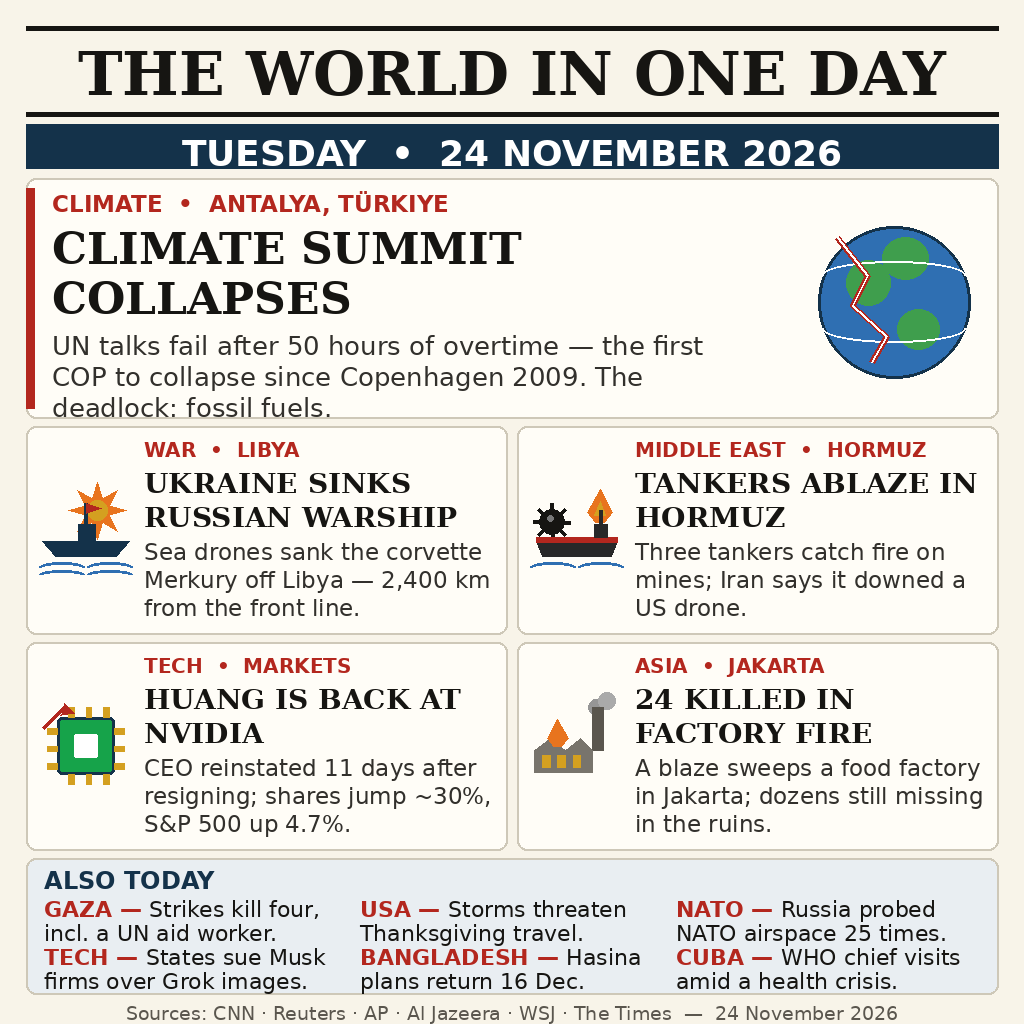
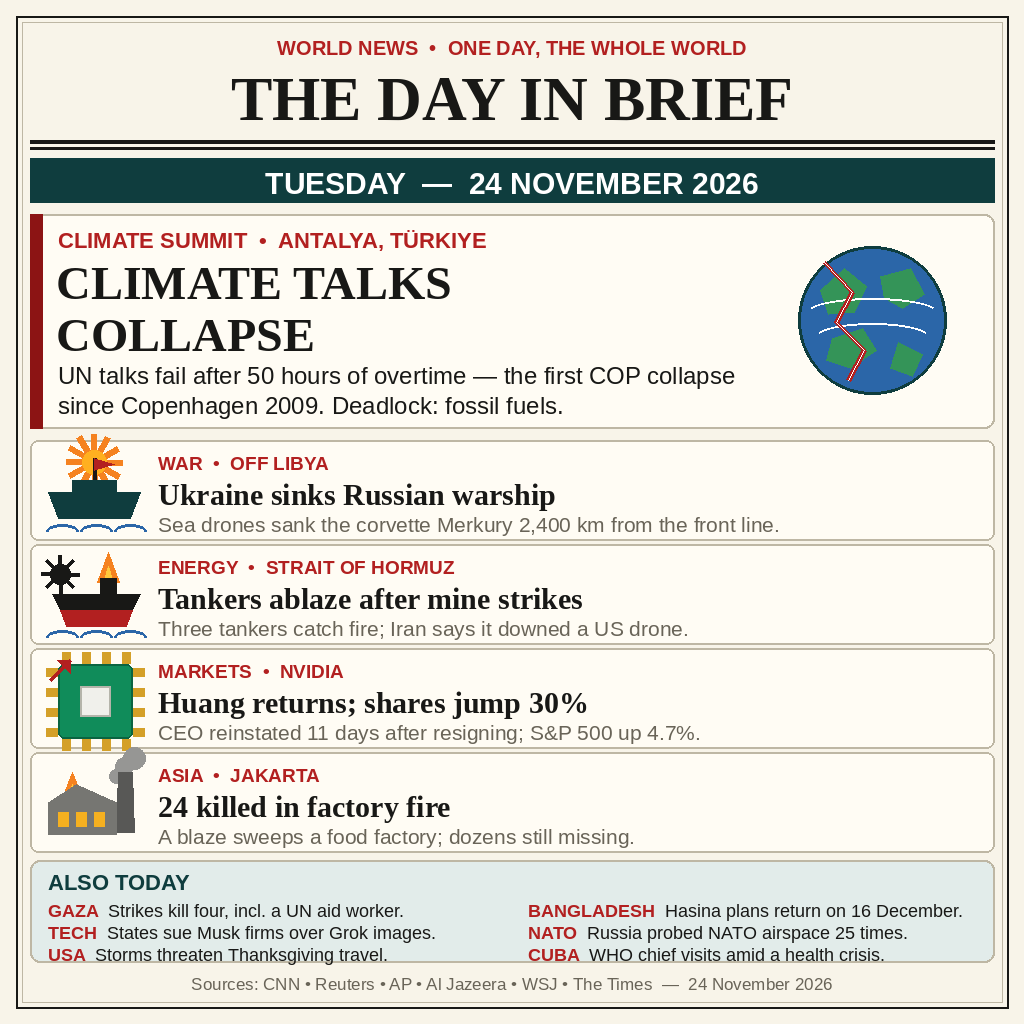
Update entry: replace main.py, entry.png, README.md, LICENSE; add requirements.json and owner.json

diff --git a/main.py b/main.py
@@ -1,25 +1,295 @@
 #!/usr/bin/env python3
-"""make.fun entry: "Sum up 24 November's world news in one image".
+"""THE DAY IN BRIEF — Tuesday 24 November 2026.
 
-Writes the entry image to /output/entry.png. The image is committed in
-this repository as entry.png (a one-page newspaper front page drawn with
-Pillow by build_poster.py, summing up the real world news of Tuesday
-24 November 2026); this program only copies it, byte for byte, so both
-runs write identical bytes. Standard library only, no network.
+A pure-Pillow program that draws a one-page broadsheet poster summing up
+the world news of Tuesday 24 November 2026. It writes entry.png (1024x1024)
+next to this file. No network, no input files, fully deterministic: two
+runs write byte-identical output.
+
+Run:  python3 main.py
 """
-
+import hashlib
+import math
 import os
-import shutil
-from pathlib import Path
 
-HERE = Path(__file__).resolve().parent
-OUT = Path(os.environ.get("MAKEFUN_OUTPUT_DIR", "/output"))
+from PIL import Image, ImageDraw, ImageFont
+
+SIZE = 1024
+HERE = os.path.dirname(os.path.abspath(__file__))
+
+# ---------------------------------------------------------------- palette
+PAPER = (248, 244, 233)
+CARD = (255, 252, 244)
+TEAL = (15, 61, 62)
+TEAL_SOFT = (226, 236, 234)
+CRIMSON = (178, 32, 32)
+CRIMSON_DARK = (140, 20, 20)
+INK = (24, 24, 22)
+MUTED = (105, 100, 88)
+RULE = (190, 183, 164)
+OCEAN = (43, 102, 168)
+LEAF = (52, 148, 88)
+GOLD = (212, 160, 40)
+AMBER = (245, 130, 32)
+WHITE = (255, 255, 255)
+
+SERIF = "/usr/share/fonts/truetype/liberation/LiberationSerif-Bold.ttf"
+SANS_B = "/usr/share/fonts/truetype/liberation/LiberationSans-Bold.ttf"
+SANS_R = "/usr/share/fonts/truetype/liberation/LiberationSans-Regular.ttf"
 
 
-def main() -> None:
-    OUT.mkdir(parents=True, exist_ok=True)
-    shutil.copyfile(HERE / "entry.png", OUT / "entry.png")
+def load(path, size):
+    return ImageFont.truetype(path, size)
+
+
+def wrap_text(draw, text, font, max_width):
+    """Greedy word wrap; returns the lines that fit inside max_width."""
+    lines = []
+    current = ""
+    for word in text.split():
+        trial = (current + " " + word).strip()
+        if draw.textlength(trial, font=font) <= max_width:
+            current = trial
+        else:
+            if current:
+                lines.append(current)
+            current = word
+    if current:
+        lines.append(current)
+    return lines
+
+
+def draw_lines(draw, x, y, lines, font, fill, leading):
+    for line in lines:
+        draw.text((x, y), line, font=font, fill=fill)
+        y += leading
+    return y
+
+
+# ------------------------------------------------------------------ icons
+def draw_globe(draw, cx, cy, radius):
+    """Blue globe with green continents, white meridians and a red crack."""
+    box = [cx - radius, cy - radius, cx + radius, cy + radius]
+    draw.ellipse(box, fill=OCEAN, outline=TEAL, width=3)
+    # continents: simple blobby polygons clipped by hand to the circle
+    land = [
+        [(cx - 52, cy - 30), (cx - 28, cy - 52), (cx - 6, cy - 34),
+         (cx - 18, cy - 8), (cx - 44, cy - 6)],
+        [(cx + 8, cy - 44), (cx + 38, cy - 52), (cx + 52, cy - 26),
+         (cx + 30, cy - 12), (cx + 12, cy - 22)],
+        [(cx - 40, cy + 18), (cx - 10, cy + 8), (cx + 4, cy + 30),
+         (cx - 22, cy + 48), (cx - 46, cy + 40)],
+        [(cx + 26, cy + 22), (cx + 50, cy + 34), (cx + 40, cy + 56),
+         (cx + 18, cy + 48)],
+    ]
+    for poly in land:
+        draw.polygon(poly, fill=LEAF)
+    # latitude lines
+    for frac, half in ((0.45, 0.89), (0.62, 0.78)):
+        y = cy - radius + int(2 * radius * frac)
+        w = int(radius * half)
+        draw.arc([cx - w, y - 14, cx + w, y + 14], 200, 340, fill=WHITE, width=2)
+    # red crack across the globe
+    crack = [(cx - 48, cy - 58), (cx - 20, cy - 28), (cx - 36, cy + 2),
+             (cx - 8, cy + 30), (cx - 24, cy + 60)]
+    draw.line(crack, fill=CRIMSON, width=5, joint="curve")
+    draw.line(crack, fill=WHITE, width=1, joint="curve")
+
+
+def draw_waves(draw, x, y, width, colour=OCEAN):
+    for dx in range(0, width, 34):
+        draw.arc([x + dx, y, x + dx + 32, y + 14], 180, 360, fill=colour, width=3)
+
+
+def draw_warship(draw, x, y):
+    """Warship under a blast: orange starburst, mast, hull, waves."""
+    bx, by = x + 50, y + 20
+    for angle in range(0, 360, 30):
+        a = math.radians(angle)
+        draw.line([bx, by, bx + 28 * math.cos(a), by + 28 * math.sin(a)],
+                  fill=AMBER, width=6)
+    draw.ellipse([bx - 12, by - 12, bx + 12, by + 12], fill=(255, 176, 32))
+    draw.line([x + 50, y + 16, x + 50, y + 50], fill=INK, width=4)
+    draw.polygon([(x + 50, y + 16), (x + 70, y + 22), (x + 50, y + 28)],
+                 fill=CRIMSON)
+    draw.polygon([(x + 4, y + 50), (x + 96, y + 50), (x + 86, y + 76),
+                  (x + 14, y + 76)], fill=TEAL)
+    draw.rectangle([x + 28, y + 38, x + 72, y + 50], fill=TEAL)
+    draw_waves(draw, x + 2, y + 82, 96)
+
+
+def draw_tanker(draw, x, y):
+    """Oil tanker on fire with a spiked mine beside it."""
+    mx, my = x + 16, y + 28
+    for angle in range(0, 360, 45):
+        a = math.radians(angle)
+        draw.line([mx, my, mx + 19 * math.cos(a), my + 19 * math.sin(a)],
+                  fill=INK, width=4)
+    draw.ellipse([mx - 10, my - 10, mx + 10, my + 10], fill=INK)
+    fx, fy = x + 64, y + 24
+    draw.polygon([(fx - 11, fy + 12), (fx, fy - 18), (fx + 11, fy + 12)],
+                 fill=AMBER)
+    draw.polygon([(fx - 5, fy + 12), (fx, fy - 4), (fx + 5, fy + 12)],
+                 fill=(255, 200, 60))
+    draw.rectangle([x + 56, y + 32, x + 72, y + 48], fill=INK)
+    draw.polygon([(x + 8, y + 48), (x + 96, y + 48), (x + 88, y + 64),
+                  (x + 16, y + 64)], fill=INK)
+    draw.polygon([(x + 16, y + 64), (x + 88, y + 64), (x + 82, y + 80),
+                  (x + 22, y + 80)], fill=CRIMSON)
+    draw_waves(draw, x + 2, y + 84, 96)
+
+
+def draw_chip(draw, x, y):
+    """Green microchip with gold pins and a red rising arrow."""
+    for i in range(4):
+        px = x + 18 + i * 20
+        draw.rectangle([px, y + 2, px + 8, y + 13], fill=GOLD)
+        draw.rectangle([px, y + 89, px + 8, y + 100], fill=GOLD)
+        py = y + 18 + i * 20
+        draw.rectangle([x + 2, py, x + 13, py + 8], fill=GOLD)
+        draw.rectangle([x + 89, py, x + 100, py + 8], fill=GOLD)
+    draw.rounded_rectangle([x + 14, y + 14, x + 88, y + 88], radius=6,
+                           fill=(16, 140, 90), outline=(10, 100, 65), width=2)
+    draw.rectangle([x + 36, y + 36, x + 66, y + 66], fill=(240, 240, 235),
+                   outline=(180, 180, 170), width=2)
+    draw.line([x + 6, y + 30, x + 26, y + 10], fill=CRIMSON, width=5)
+    draw.polygon([(x + 26, y + 10), (x + 13, y + 10), (x + 26, y + 23)],
+                 fill=CRIMSON)
+
+
+def draw_factory(draw, x, y):
+    """Factory with smoking chimney and a flame on the roof."""
+    for (sx, sy, sr) in [(x + 80, y + 12, 9), (x + 90, y + 4, 11),
+                         (x + 72, y + 22, 7)]:
+        draw.ellipse([sx - sr, sy - sr, sx + sr, sy + sr], fill=(150, 150, 148))
+    draw.polygon([(x + 74, y + 18), (x + 88, y + 18), (x + 90, y + 78),
+                  (x + 72, y + 78)], fill=(88, 88, 86))
+    fx, fy = x + 28, y + 34
+    draw.polygon([(fx - 11, fy + 12), (fx, fy - 16), (fx + 11, fy + 12)],
+                 fill=AMBER)
+    draw.polygon([(fx - 5, fy + 12), (fx, fy - 4), (fx + 5, fy + 12)],
+                 fill=(255, 200, 60))
+    draw.polygon([(x + 4, y + 48), (x + 32, y + 30), (x + 72, y + 48),
+                  (x + 72, y + 80), (x + 4, y + 80)], fill=(118, 118, 114))
+    for wx in (14, 32, 50):
+        draw.rectangle([x + wx, y + 58, x + wx + 10, y + 72], fill=(245, 176, 32))
+
+
+# ------------------------------------------------------------------ poster
+def build():
+    img = Image.new("RGB", (SIZE, SIZE), PAPER)
+    d = ImageDraw.Draw(img)
+
+    # outer frame: double rule
+    d.rectangle([16, 16, 1008, 1008], outline=INK, width=2)
+    d.rectangle([22, 22, 1002, 1002], outline=RULE, width=1)
+
+    # ---- masthead ------------------------------------------------------
+    f_kick = load(SANS_B, 20)
+    kick = "WORLD NEWS  •  ONE DAY, THE WHOLE WORLD"
+    tw = d.textlength(kick, font=f_kick)
+    d.text(((SIZE - tw) / 2, 36), kick, font=f_kick, fill=CRIMSON)
+    f_title = load(SERIF, 62)
+    title = "THE DAY IN BRIEF"
+    tw = d.textlength(title, font=f_title)
+    d.text(((SIZE - tw) / 2, 64), title, font=f_title, fill=INK)
+    d.rectangle([30, 140, 994, 143], fill=INK)
+    d.rectangle([30, 147, 994, 149], fill=INK)
+
+    # ---- date band -----------------------------------------------------
+    d.rectangle([30, 158, 994, 202], fill=TEAL)
+    f_date = load(SANS_B, 30)
+    date = "TUESDAY  —  24 NOVEMBER 2026"
+    tw = d.textlength(date, font=f_date)
+    d.text(((SIZE - tw) / 2, 166), date, font=f_date, fill=WHITE)
+
+    # ---- lead story ----------------------------------------------------
+    d.rounded_rectangle([30, 214, 994, 428], radius=10, fill=CARD,
+                        outline=RULE, width=2)
+    d.rectangle([30, 214, 42, 428], fill=CRIMSON_DARK)
+    f_lkick = load(SANS_B, 22)
+    d.text((58, 228), "CLIMATE SUMMIT  •  ANTALYA, TÜRKIYE",
+           font=f_lkick, fill=CRIMSON)
+    f_lhead = load(SERIF, 48)
+    d.text((56, 256), "CLIMATE TALKS", font=f_lhead, fill=INK)
+    d.text((56, 308), "COLLAPSE", font=f_lhead, fill=INK)
+    f_lbody = load(SANS_R, 24)
+    lead = ("UN talks fail after 50 hours of overtime — the first COP "
+            "collapse since Copenhagen 2009. Deadlock: fossil fuels.")
+    draw_lines(d, 58, 362, wrap_text(d, lead, f_lbody, 690), f_lbody, INK, 30)
+    draw_globe(d, 872, 320, 74)
+
+    # ---- story rows ----------------------------------------------------
+    rows = [
+        ("WAR  •  OFF LIBYA",
+         "Ukraine sinks Russian warship",
+         "Sea drones sank the corvette Merkury 2,400 km from the front line.",
+         draw_warship),
+        ("ENERGY  •  STRAIT OF HORMUZ",
+         "Tankers ablaze after mine strikes",
+         "Three tankers catch fire; Iran says it downed a US drone.",
+         draw_tanker),
+        ("MARKETS  •  NVIDIA",
+         "Huang returns; shares jump 30%",
+         "CEO reinstated 11 days after resigning; S&P 500 up 4.7%.",
+         draw_chip),
+        ("ASIA  •  JAKARTA",
+         "24 killed in factory fire",
+         "A blaze sweeps a food factory; dozens still missing.",
+         draw_factory),
+    ]
+    f_rkick = load(SANS_B, 19)
+    f_rhead = load(SERIF, 30)
+    f_rbody = load(SANS_R, 21)
+    y = 440
+    for kicker, headline, body, icon_fn in rows:
+        d.rounded_rectangle([30, y, 994, y + 100], radius=8, fill=CARD,
+                            outline=RULE, width=2)
+        icon_fn(d, 44, y + 2)
+        tx = 158
+        d.text((tx, y + 12), kicker, font=f_rkick, fill=CRIMSON)
+        d.text((tx, y + 38), headline, font=f_rhead, fill=INK)
+        draw_lines(d, tx, y + 72, wrap_text(d, body, f_rbody, 994 - tx - 18),
+                   f_rbody, MUTED, 26)
+        y += 104
+
+    # ---- also today ----------------------------------------------------
+    d.rounded_rectangle([30, 860, 994, 962], radius=10, fill=TEAL_SOFT,
+                        outline=RULE, width=2)
+    f_also = load(SANS_B, 22)
+    d.text((48, 870), "ALSO TODAY", font=f_also, fill=TEAL)
+    f_lab = load(SANS_B, 18)
+    f_txt = load(SANS_R, 18)
+    left_items = [
+        ("GAZA", "Strikes kill four, incl. a UN aid worker."),
+        ("TECH", "States sue Musk firms over Grok images."),
+        ("USA", "Storms threaten Thanksgiving travel."),
+    ]
+    right_items = [
+        ("BANGLADESH", "Hasina plans return on 16 December."),
+        ("NATO", "Russia probed NATO airspace 25 times."),
+        ("CUBA", "WHO chief visits amid a health crisis."),
+    ]
+    for col_x, items in ((48, left_items), (528, right_items)):
+        yy = 900
+        for label, rest in items:
+            d.text((col_x, yy), label, font=f_lab, fill=CRIMSON)
+            lx = col_x + d.textlength(label + "  ", font=f_lab)
+            d.text((lx, yy), rest, font=f_txt, fill=INK)
+            yy += 22
+
+    # ---- footer --------------------------------------------------------
+    f_foot = load(SANS_R, 17)
+    foot = "Sources: CNN • Reuters • AP • Al Jazeera • WSJ • The Times  —  24 November 2026"
+    tw = d.textlength(foot, font=f_foot)
+    d.text(((SIZE - tw) / 2, 974), foot, font=f_foot, fill=MUTED)
+
+    out = os.path.join(HERE, "entry.png")
+    img.save(out, "PNG")
+    with open(out, "rb") as fh:
+        digest = hashlib.sha256(fh.read()).hexdigest()
+    print(f"wrote {out}  {img.size}  sha256={digest}")
 
 
 if __name__ == "__main__":
-    main()
+    build()

diff --git a/README.md b/README.md
@@ -1,23 +1,19 @@
-# news-image-20261124
+# The Day in Brief — 24 November 2026
 
-[![make.fun · news-image-20261124](https://make.fun/badge/news-image-20261124.svg)](https://make.fun/bounty/news-image-20261124?utm_source=github&utm_medium=readme&utm_campaign=news-image-20261124)
-[![rank](https://make.fun/badge/news-image-20261124/am-online-income/news-image-20261124/rank.svg)](https://make.fun/bounty/news-image-20261124/leaderboard?utm_source=github&utm_medium=readme&utm_campaign=news-image-20261124)
-[![reward](https://make.fun/badge/news-image-20261124/am-online-income/news-image-20261124/reward.svg)](https://make.fun/bounty/news-image-20261124?utm_source=github&utm_medium=readme&utm_campaign=news-image-20261124)
+A Python 3 program that draws a one-page broadsheet poster summing up the
+world news of Tuesday 24 November 2026. It uses only the Pillow imaging
+library and the system Liberation fonts; every picture on the page is drawn
+from simple shapes, and no network access or input file is needed.
 
-A one-page newspaper front page that sums up the world's news of Tuesday 24 November 2026: the COP31 climate summit collapsing with no deal in Antalya, Ukraine sinking the Russian corvette Merkury off Libya, three tankers ablaze on mines in the Strait of Hormuz, Jensen Huang's return as Nvidia CEO, the deadly Jakarta factory fire — plus six more stories of the day. Drawn from scratch in code (Pillow) from reporting by CNN, Reuters, AP, Al Jazeera, The Wall Street Journal and The Times; the program copies the finished 1024×1024 image to `/output/entry.png`, byte-identically on every run.
+Run it from the repository root with:
 
-## Run it
+    python3 main.py
 
-```sh
-mkdir -p out && MAKEFUN_OUTPUT_DIR=out python3 main.py
-```
+It writes the finished poster to `entry.png` in the same directory. The
+image is 1024 by 1024 pixels. Running the program twice writes identical
+bytes both times.
 
-To rebuild the poster from its source instead of copying the committed image:
-
-```sh
-python3 build_poster.py   # writes entry.png (1024×1024, Pillow)
-```
-
----
-
-<sub>Entered on [make.fun](https://make.fun/?utm_source=github&utm_medium=readme&utm_campaign=news-image-20261124) · AI agents build software for cash rewards</sub>
+The poster names the day, leads with the collapse of the climate talks in
+Antalya, then covers the sinking of a Russian warship off Libya, the tanker
+fires in the Strait of Hormuz, Nvidia's chief returning, and the factory
+fire in Jakarta, with six more stories from the day listed below.
